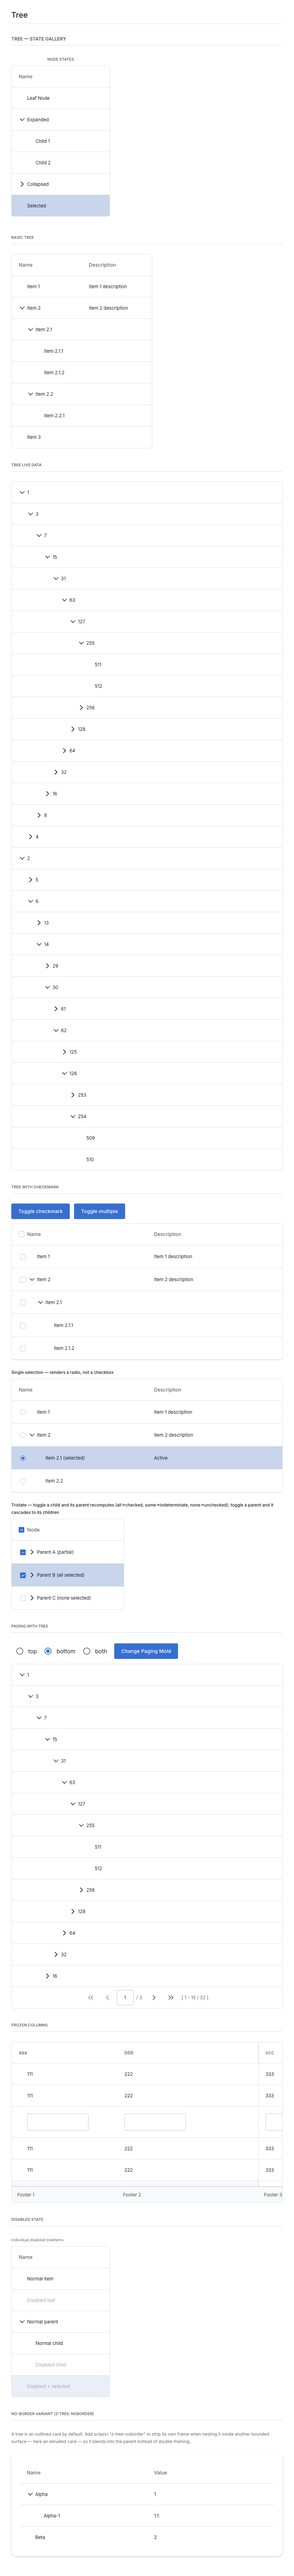
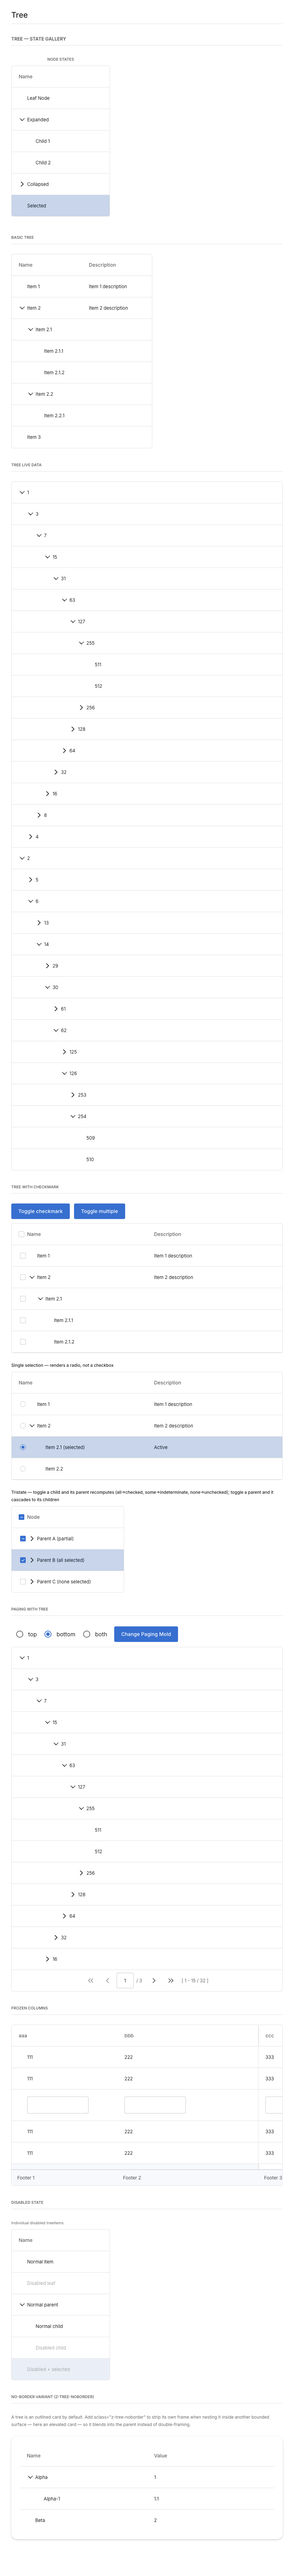
ZK-6112: make checkmark Listbox rows as tall as Grid rows and guard them, with the image-only menu header minimum width (follow-up 28, 30)
Follow-up 28: vertical-align middle on the inline row checkbox span grew the line box, so checkmark Listbox rows were 53.45 / 33.45px against Grid 52 / 32px. The span is now aligned to the top of the line, which also centres the glyph on the label. The tablet half is in zkcml. Guards compare checkmark Listbox and Tree rows with the Grid row and centre the glyph on the label in default, compact and tablet density; the baselines whose checkmark rows shrank are re-cut.

Follow-up 30: guards for an image-only header column with the menu button at its minimum width (58px desktop, 78px tablet) and for the image + sort + menu header on a tablet.

diff --git a/zkpreview/src/test/playwright/mesh-header-footer.spec.ts b/zkpreview/src/test/playwright/mesh-header-footer.spec.ts
@@ -25,6 +25,12 @@ import { test, expect, Page } from '@playwright/test';
 //    clear of them (D11 follow-through);
 //  - a Tree header is as tall as the Grid header with the same labels in default, compact and tablet density,
 //    and on a tablet the data rows are as tall as well (D17);
+//  - a checkmark Listbox row and a checkmark Tree row are as tall as the Grid row (the Tree row as the plain Tree
+//    row in compact density, where Tree has its own 36px row) in default, compact and tablet density, the
+//    painted box is centred on the label within 1px, and on a tablet the box keeps its 24px height (follow-up 28);
+//  - an image-only header column that carries the column-menu button, at the documented minimum width (58px on
+//    desktop, 78px on a tablet, contracts/listbox.md), shows the whole 16px image clear of the button (follow-up 30);
+//  - an image + sort + menu header keeps the label, arrow and button in that order on a tablet too (follow-up 30);
 //  - footer text starts where the body text of the same column starts (`border-spacing: 2px` of the UA
 //    table shifted Grid and Listbox footers right).
 // Fixture: web/pv/mesh-header-footer-guard.zul
@@ -34,6 +40,7 @@ const TOLERANCE_PX = 1;
 const ARROW_SIZE_PX = 12;
 const MIN_LABEL_ARROW_GAP_PX = 2;
 const SORTED_COLUMN = 2;
+const ICON_IMAGE_PX = 16;
 
 interface Mesh {
   root: string;
@@ -342,6 +349,135 @@ function registerTreeHeaderMatchesGrid() {
 
 const sortedHeader = (mesh: Mesh) => `${mesh.root} ${mesh.header}:nth-child(${SORTED_COLUMN})`;
 
+const TOUCH_BOX_PX = 24;
+const MIN_IMAGE_COLUMN_DESKTOP = 1;
+const MIN_IMAGE_COLUMN_TABLET = 2;
+
+interface CheckmarkRows {
+  name: string;
+  root: string;
+  row: string;
+  icon: string;
+  checkable: string;
+  text: string;
+  // Compact Tree has its own 36px row, so its reference there is the plain Tree row, not the Grid row.
+  gridRow: string;
+  compactReferenceRow: string;
+}
+
+const CHECKMARK_ROWS: CheckmarkRows[] = [
+  {
+    name: 'listbox', root: '.mhf-listbox-vs-grid', row: 'tr.z-listitem', icon: '.z-listitem-icon',
+    checkable: '.z-listitem-checkable', text: '.z-listcell-content', gridRow: '.mhf-grid-vs-listbox tr.z-row',
+    compactReferenceRow: '.mhf-grid-vs-listbox tr.z-row',
+  },
+  {
+    name: 'tree', root: '.mhf-tree-checkmark', row: 'tr.z-treerow', icon: '.z-treerow-icon',
+    checkable: '.z-treerow-checkable', text: '.z-treecell-content', gridRow: '.mhf-grid-vs-tree tr.z-row',
+    compactReferenceRow: '.mhf-tree-vs-grid tr.z-treerow',
+  },
+];
+
+// A checkmark row is as tall as the row without the box, and the painted box is centred on the label. Follow-up 28:
+// `vertical-align: middle` (desktop) and the 24px touch box (tablet) grew the Listbox line box.
+function registerCheckmarkRowsMatchGrid(density: 'default' | 'compact' | 'tablet') {
+  for (const { name, root, row, icon, text, gridRow, compactReferenceRow } of CHECKMARK_ROWS) {
+    const reference = density === 'compact' ? compactReferenceRow : gridRow;
+    const prepare = async (page: Page) => {
+      await open(page);
+      if (density === 'compact') await page.evaluate(() => document.documentElement.setAttribute('data-density', 'compact'));
+    };
+
+    test(`${root}: the checkmark ${name} row is as tall as the reference row in ${density} density`, async ({ page }) => {
+      await prepare(page);
+      const checkmark = await boxHeight(page, `${root} ${row}`);
+      const expected = await boxHeight(page, reference);
+      expect(Math.abs(checkmark - expected), `checkmark row ${checkmark}, reference row ${expected}`).toBeLessThanOrEqual(SUB_PIXEL_PX);
+    });
+
+    test(`${root}: the painted box of the checkmark ${name} row is centred on its label in ${density} density`, async ({ page }) => {
+      await prepare(page);
+      const measured = await page.locator(`${root} ${row}`).first().evaluate((tr, selectors) => {
+        const centre = (rect: DOMRect) => (rect.top + rect.bottom) / 2;
+        // The 16px glyph is the icon's `::before`; a zero-size marker gives the baseline it hangs from.
+        const icon = tr.querySelector(selectors.icon)!;
+        const marker = document.createElement('span');
+        marker.style.cssText = 'display:inline-block;width:0;height:0';
+        icon.appendChild(marker);
+        const baseline = marker.getBoundingClientRect().bottom;
+        marker.remove();
+        const glyph = getComputedStyle(icon, '::before');
+        const glyphCentre = baseline - parseFloat(glyph.verticalAlign) - parseFloat(glyph.height) / 2;
+        const textNode = document.createTreeWalker(tr.querySelector(selectors.text)!, NodeFilter.SHOW_TEXT, {
+          acceptNode: (node) => (node.textContent?.trim() ? NodeFilter.FILTER_ACCEPT : NodeFilter.FILTER_SKIP),
+        }).nextNode() as Text;
+        const label = document.createRange();
+        label.selectNodeContents(textNode);
+        return { glyph: glyphCentre, label: centre(label.getBoundingClientRect()) };
+      }, { text, icon });
+      expect(Math.abs(measured.glyph - measured.label), `box centre ${measured.glyph}, label centre ${measured.label}`)
+        .toBeLessThanOrEqual(TOLERANCE_PX);
+    });
+  }
+}
+
+// On a tablet the row box keeps the 24px touch height, although it no longer stretches the row.
+function registerCheckmarkBoxKeepsTouchHeight() {
+  for (const { name, root, row, checkable } of CHECKMARK_ROWS) {
+    test(`${root}: the checkmark ${name} row box keeps the ${TOUCH_BOX_PX}px touch height`, async ({ page }) => {
+      await open(page);
+      const height = await boxHeight(page, `${root} ${row} ${checkable}`);
+      expect(height).toBe(TOUCH_BOX_PX);
+    });
+  }
+}
+
+// The documented minimum width of an image-only header column with the menu button (contracts/listbox.md): the
+// whole 16px image shows and ends before the button.
+function registerImageOnlyMenuHeaderAtMinimumWidth(column: number) {
+  const cases = [
+    { root: '.mhf-grid-icon-menu', header: 'th.z-column', button: '.z-column-button' },
+    { root: '.mhf-listbox-icon-menu', header: 'th.z-listheader', button: '.z-listheader-button' },
+  ];
+  for (const { root, header, button } of cases) {
+    test(`${root}: an image-only column of the minimum width shows the whole image clear of the menu button`, async ({ page }) => {
+      await open(page);
+      const th = `${root} ${header}:nth-child(${column})`;
+      const image = await page.locator(`${th} img`).evaluate((img) => {
+        const rect = img.getBoundingClientRect();
+        return { width: rect.width, left: rect.left, right: rect.right };
+      });
+      const buttonLeft = await page.locator(`${th} ${button}`).evaluate((el) => el.getBoundingClientRect().left);
+      const headerLeft = await page.locator(th).evaluate((el) => el.getBoundingClientRect().left);
+      expect.soft(image.width, 'image width').toBe(ICON_IMAGE_PX);
+      expect.soft(image.left - headerLeft, 'image left of the header edge').toBeGreaterThanOrEqual(0);
+      expect(buttonLeft - image.right, `image right ${image.right}, button left ${buttonLeft}`).toBeGreaterThanOrEqual(0);
+    });
+  }
+}
+
+// An image + sort + menu header (`GRID_IMAGE_MENU`, `LISTBOX_IMAGE_MENU`): the label box, the sort arrow and the
+// menu button keep that order and the 16px image is not squeezed.
+function registerImageSortMenuHeaderOrder(meshes: Mesh[]) {
+  for (const mesh of meshes) {
+    test(`${mesh.root}: the label box ends before the arrow, the arrow before the menu button, and the image is whole`, async ({ page }) => {
+      await open(page);
+      const header = sortedHeader(mesh);
+      const left = (selector: string) => page.locator(`${header} ${selector}`).evaluate((el) => el.getBoundingClientRect().left);
+      const right = (selector: string) => page.locator(`${header} ${selector}`).evaluate((el) => el.getBoundingClientRect().right);
+      const button = mesh === GRID_IMAGE_MENU ? '.z-column-button' : '.z-listheader-button';
+      const labelRight = await right(mesh.headerContent);
+      const arrowLeft = await left(mesh.sortIcon);
+      const arrowRight = await right(mesh.sortIcon);
+      const buttonLeft = await left(button);
+      const imageWidth = await page.locator(`${header} img`).evaluate((img) => img.getBoundingClientRect().width);
+      expect.soft(arrowLeft - labelRight, `label box right ${labelRight}, arrow left ${arrowLeft}`).toBeGreaterThanOrEqual(MIN_LABEL_ARROW_GAP_PX);
+      expect.soft(buttonLeft - arrowRight, `arrow right ${arrowRight}, button left ${buttonLeft}`).toBeGreaterThanOrEqual(MIN_LABEL_ARROW_GAP_PX);
+      expect(imageWidth).toBe(ICON_IMAGE_PX);
+    });
+  }
+}
+
 test.describe('mesh header and footer', () => {
   for (const mesh of [GRID, LISTBOX, TREE]) {
     test(`${mesh.root}: footer text starts where the body text starts`, async ({ page }) => {
@@ -462,6 +598,10 @@ test.describe('mesh header and footer', () => {
   registerSelectAllHeaderClearsArrowAndButton();
   registerMenuHeaderClearsArrowAndButton();
   registerTreeHeaderMatchesGrid();
+  registerCheckmarkRowsMatchGrid('default');
+  registerCheckmarkRowsMatchGrid('compact');
+  registerImageOnlyMenuHeaderAtMinimumWidth(MIN_IMAGE_COLUMN_DESKTOP);
+  registerImageSortMenuHeaderOrder([GRID_IMAGE_MENU, LISTBOX_IMAGE_MENU]);
 
   // Tagged @tablet: the `mesh-header-footer` project skips it, `mesh-header-footer-tablet` runs only it.
   test.describe('select-all header on a tablet @tablet', () => {
@@ -491,6 +631,10 @@ test.describe('mesh header and footer', () => {
     registerSelectAllHeaderClearsArrowAndButton();
     registerMenuHeaderClearsArrowAndButton();
     registerTreeHeaderMatchesGrid();
+    registerCheckmarkRowsMatchGrid('tablet');
+    registerCheckmarkBoxKeepsTouchHeight();
+    registerImageOnlyMenuHeaderAtMinimumWidth(MIN_IMAGE_COLUMN_TABLET);
+    registerImageSortMenuHeaderOrder([GRID_IMAGE_MENU, LISTBOX_IMAGE_MENU]);
 
     test('.mhf-tree-vs-grid: the tree data row is as tall as the grid data row', async ({ page }) => {
       await open(page);

diff --git a/zul/src/main/resources/web/js/zul/sel/css/listbox.css b/zul/src/main/resources/web/js/zul/sel/css/listbox.css
@@ -517,6 +517,13 @@
     vertical-align: middle;
 }
 
+/* `middle` on an inline span grows the row's line box by 1.45px (53.45px against the 52px of a Grid row,
+   33.45 against 32 in compact density). Aligned to the top of the line box the 16px box sits on the label
+   centre and the row is as tall as a Grid row. */
+.z-listitem-checkable {
+    vertical-align: top;
+}
+
 /* Checkbox-only header column (typically width="40px"): the default
    16px-each-side padding leaves only 8px for the 16px check icon, clipping
    its right edge. Collapse side padding so the icon fits.
